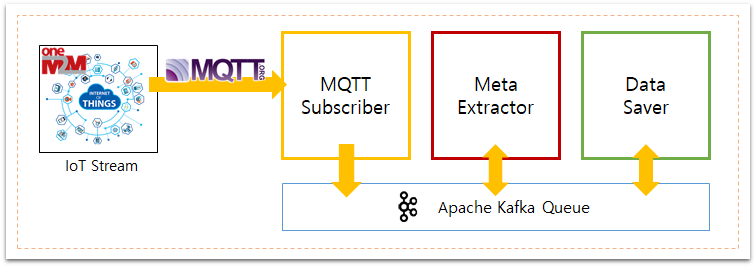
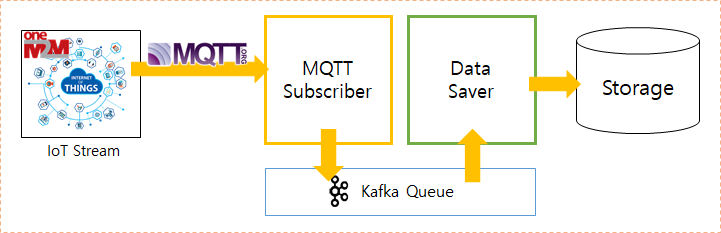
delete MetaExtractor.java and fix structure.png

Changed region(s): [[0.0, 0.0, 1.0, 1.0], [0.1221, 0.0, 0.3356, 0.0601], [0.0915, 0.9013, 0.1221, 0.9313]]

diff --git a/src/main/java/knu/intra/harvestor/module/Harvestor.java b/src/main/java/knu/intra/harvestor/module/Harvestor.java
@@ -10,7 +10,6 @@ import org.json.JSONObject;
 public class Harvestor {
     private String harvestId;
     private MqttSubscriber mqttSubscriber;
-    private Thread metaExtractorThread;
     private Thread dataSaverThread;
 
     public Harvestor(JSONObject parameter) {
@@ -27,19 +26,16 @@ public class Harvestor {
         String dstTopic = parameter.getString("dstTopic");
 
         this.mqttSubscriber = new MqttSubscriber(harvestId, mqttBoker, mqttTopic, clientId).setKafkaProducer(kafkaBroker, subTopic);
-        this.metaExtractorThread = new Thread(new MetaExtractor(harvestId, kafkaBroker, subTopic, metaTopic));
         this.dataSaverThread = new Thread(new DataSaver(harvestId, kafkaBroker, metaTopic, dstTopic, resourceId, distributionId, userId));
     }
 
     public void start() throws MqttException {
         mqttSubscriber.connect();
-        metaExtractorThread.start();
         dataSaverThread.start();
     }
 
     public void stop() throws MqttException {
         mqttSubscriber.disConnect();
-        metaExtractorThread.interrupt();
         dataSaverThread.interrupt();
     }
 
